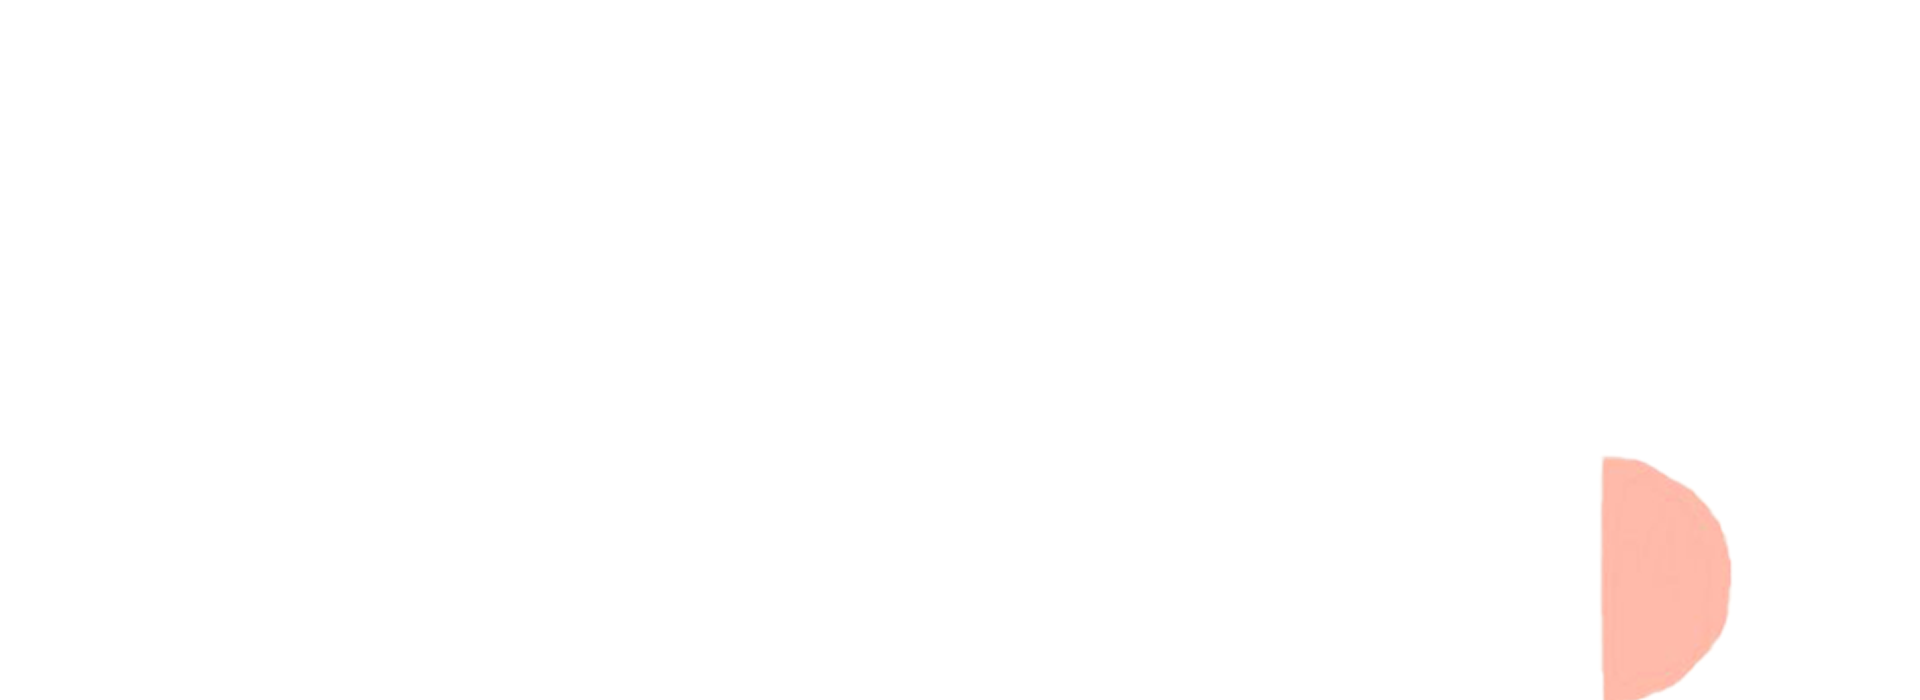
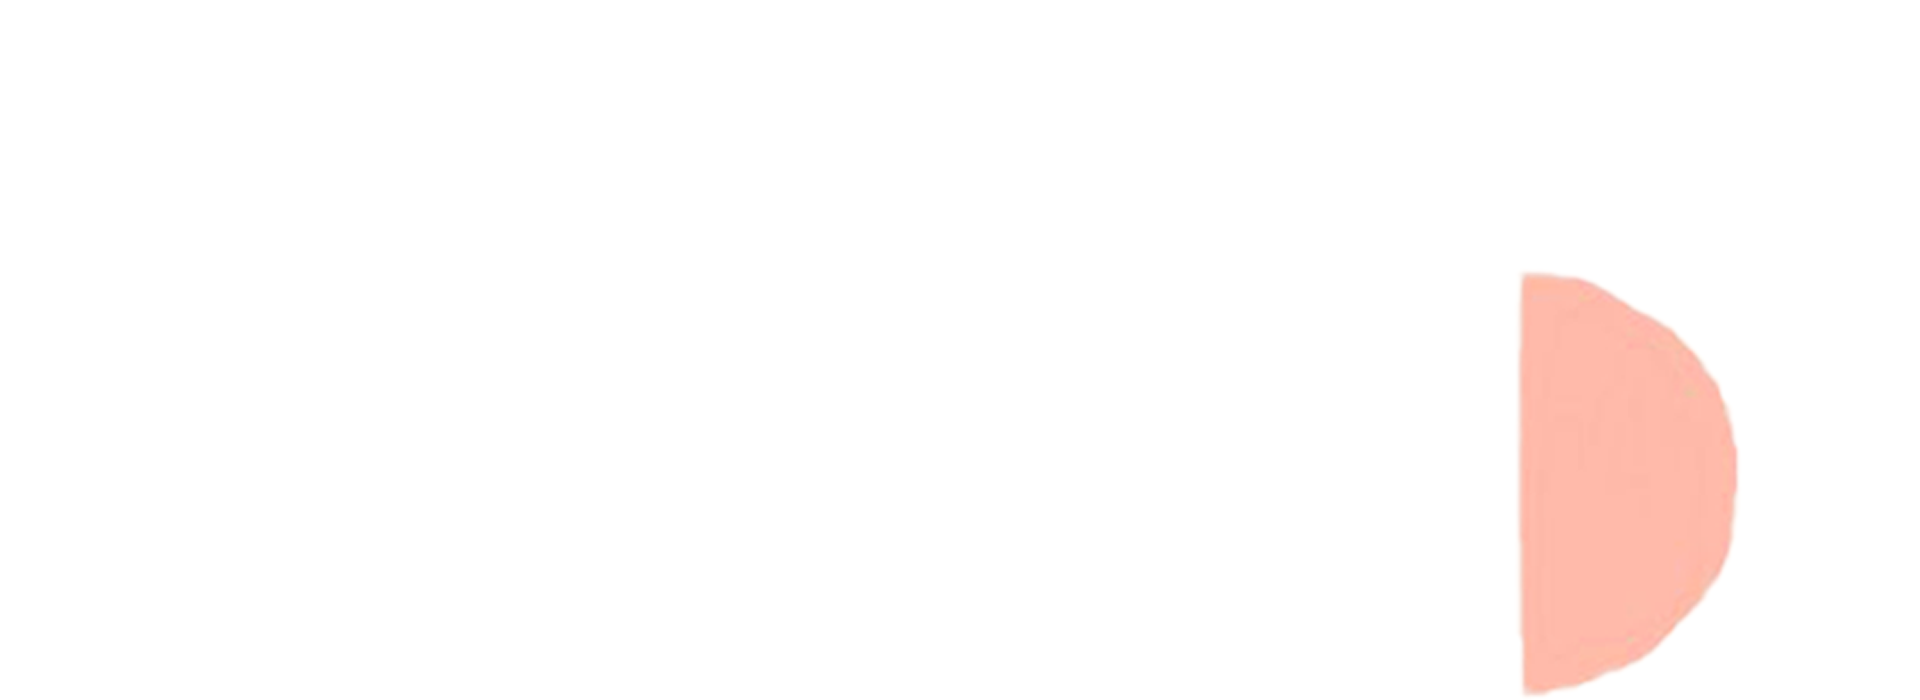
Add files via upload

Changed region(s): [[0.7812, 0.39, 0.9062, 1.0]]

diff --git a/index.html b/index.html
@@ -12,6 +12,12 @@
         @import url('https://fonts.googleapis.com/css2?family=Nanum+Pen+Script&display=swap');
         @import url('https://fonts.googleapis.com/css2?family=Gamja+Flower&display=swap');
         </style>     
+        <link href="https://unpkg.com/aos@2.3.1/dist/aos.css" rel="stylesheet">
+        <link
+        rel="stylesheet"
+        href="https://cdnjs.cloudflare.com/ajax/libs/animate.css/4.1.1/animate.min.css"
+      />
+
     <!-- 팬시박스 css -->
     <link rel="stylesheet" href="https://cdnjs.cloudflare.com/ajax/libs/fancybox/3.5.7/jquery.fancybox.css" integrity="sha512-nNlU0WK2QfKsuEmdcTwkeh+lhGs6uyOxuUs+n+0oXSYDok5qy0EI0lt01ZynHq6+p/tbgpZ7P+yUb+r71wqdXg=="  crossorigin="anonymous" referrerpolicy="no-referrer" />
     <link href="css/main.css" rel="stylesheet" />
@@ -19,6 +25,7 @@
     <script src="https://cdnjs.cloudflare.com/ajax/libs/jquery/3.6.0/jquery.min.js" integrity="sha512-894YE6QWD5I59HgZOGReFYm4dnWc1Qt5NtvYSaNcOP+u1T9qYdvdihz0PPSiiqn/+/3e7Jo4EaG7TubfWGUrMQ==" crossorigin="anonymous" referrerpolicy="no-referrer"></script>   
     <!-- 팬시박스 js -->
     <script src="https://cdnjs.cloudflare.com/ajax/libs/fancybox/3.5.7/jquery.fancybox.min.js" integrity="sha512-uURl+ZXMBrF4AwGaWmEetzrd+J5/8NRkWAvJx5sbPSSuOb0bZLqf+tOzniObO00BjHa/dD7gub9oCGMLPQHtQA==" crossorigin="anonymous" referrerpolicy="no-referrer"></script>
+    <script src="https://unpkg.com/aos@2.3.1/dist/aos.js"></script>
      
      <script>
          $(function(){
@@ -30,6 +37,8 @@
                  $('.motion .list_cont').removeClass('on');
                  $('.motion .list_cont').eq($(this).index()).addClass('on');
              });//click end
+
+             AOS.init();
          });
      </script>
 
@@ -48,25 +57,30 @@
             <img src="images/Untitled-1.png" />
         </figure>
         <div class="title">
+            <div class="animate__animated animate__zoomInDown">
             <h2>MOTION GRAPHIC DESIGNER</h2>
             <p> SON YE LIM</p>
             <a href="https://www.youtube.com/channel/UC-iS3PCWV_moYdTv9icx0Rw">YouTube</a>
+            </div>
         </div><!-- .title end -->
     </section><!-- .main_visual end -->
 
     <section class="best_v">
+        <figure>
+            <img src="images/Untitled-3.png" />
+        </figure>
         <div class="title">
             <h3>BEST VIDEO EDITING</h3>
             <p>내가 뽑은 베스트 작품</p>
         </div><!-- .tilte end -->
         <div class="cont">
-            <div class="youtube">
+            <div class="youtube" data-aos="fade-up-right">
                 <div class="youtube_in">
                     <!-- 유튜브 연결 -->
                     <iframe width="560" height="315" src="https://www.youtube.com/embed/UMrxAjHFZRU" title="YouTube video player" frameborder="0" allow="accelerometer; autoplay; clipboard-write; encrypted-media; gyroscope; picture-in-picture" allowfullscreen></iframe>
                 </div><!-- .youtube_in-->
             </div><!-- .youtube end -->
-            <div class="info">
+            <div class="info" data-aos="fade-up-left">
                 <strong>#3D 마야</strong>
                 <h4>3D연령고지 영상</h4>
                 <p>촬영, 편집, 연출, 디자인, 특수효과</p>
@@ -97,6 +111,9 @@
     </section><!-- .bext_v end -->
 
     <section class="motion">
+        <!-- <figure> -->
+            <!-- <img src="images/Untitled-4.png" /> -->
+        <!-- </figure> -->
         <div class="title">
             <h3>MOTION GRAPHICS</h3>
             <p>비디오, 애니메이션 기술을 이용한 영상제작</p>

diff --git a/css/main.css b/css/main.css
@@ -87,9 +87,15 @@ header div a {
 /* .best_v */
 .best_v {
     padding: 100px 0;
-    background: url('../images/Untitled-3.png') center center / cover no-repeat ;
+    /* background: url('../images/Untitled-3.png') center center / cover no-repeat ; */
     background-color: #fad9c9;
     /* background: url('../images/파일명,확장자명'); */
+    position: relative;
+}
+section.best_v figure {
+    position: absolute;
+    right: 0;
+    bottom: -200px;
 }
 .best_v .title {
     text-align: center;
@@ -177,9 +183,15 @@ header div a {
 
 .motion {
     padding: 100px 0;
-    background: url('../images/Untitled-4.png') center center / cover no-repeat ;
+    /* background: url('../images/Untitled-4.png') center center / cover no-repeat ; */
     background-color: #fff6ed;
+    /* position: relative; */
 }
+/* section.motion figure { */
+    /* position: absolute; */
+    /* bottom: 0; */
+    /* left: -45px; */
+/* } */
 .motion .title {
     text-align: center;
     margin-bottom: 40px;
@@ -500,4 +512,37 @@ footer p {
     body {
         overflow-x: hidden;
     }
+    
 }/*해상도 960px 이하 */
+@media screen and (max-width:640px) {
+    section .title h3 {
+        font-size: 30px;
+    }
+    .main_visual .title h2 {
+        font-size: 35px !important;
+    }
+    section .title p {
+        font-size: 16px !important;
+    }
+    section .info h4 {
+        font-size: 22px !important;
+    }
+    .motion .list_cont .items .info {
+        padding: 15px;
+    }
+    .motion .list_cont .items .info dl dt {
+        width: 30%;
+    }
+    .motion .list_cont .items .info dl dd {
+        width: 60%;
+        word-break: break-all;
+        /* 줄바꿈 : 글자별 */
+    }
+    .g_ver05 .cont .items figure {
+        height: 300px;
+    }
+    .about .cont .info div h4 {margin-bottom: 10px;}
+    .about .cont .info div p {font-size: 16px;}
+    .about .cont .info div dl dt {font-size: 16px;}
+    .about .cont .info div dl dd {font-size: 16px;}
+}/*해상도 640px 이하*/
